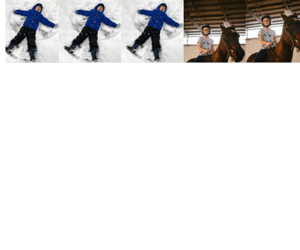
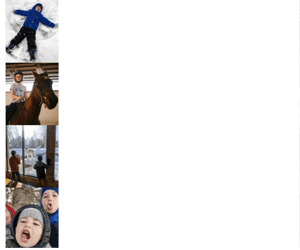
Aldi photo update

Changed region(s): [[0.18, 0.0, 1.0, 0.252], [0.0, 0.224, 0.21, 1.0]]

diff --git a/preview/Aldi/Aldi_Photo_2025/300x250/main.js b/preview/Aldi/Aldi_Photo_2025/300x250/main.js
@@ -16,7 +16,8 @@ function init() {
     })
 
     document.querySelector("#mainExit").addEventListener("click", function(){
-        masterTL.progress(1);
+        // masterTL.progress(1);
+        masterTL.pause();
     })
 
     getAnimation();
@@ -27,15 +28,15 @@ function getAnimation(){
     masterTL = gsap.timeline({paused:true});
     masterTL.add("start")
     masterTL.to("#loaderWrapper", 0.2, {opacity:0, ease:Sine.easeInOut}, "start");
-    masterTL.from("#bg1Wrapper", 3, {x:300, ease:Sine.easeOut}, "start")
-    masterTL.from("#bg2Wrapper", 3, {x:180, ease:Sine.easeOut}, "start")
-    masterTL.from("#bg3Wrapper", 3, {x:220, ease:Sine.easeOut}, "start")
-    masterTL.from("#bg4Wrapper", 3, {x:260, ease:Sine.easeOut}, "start")
+    masterTL.from("#bg1Wrapper", 3, {y:-250, ease:Sine.easeOut}, "start")
+    masterTL.from("#bg2Wrapper", 3, {y:-100, ease:Sine.easeOut}, "start")
+    masterTL.from("#bg3Wrapper", 3, {y:-200, ease:Sine.easeOut}, "start")
+    masterTL.from("#bg4Wrapper", 3, {y:-120, ease:Sine.easeOut}, "start")
+    masterTL.from("#bg5Wrapper", 3, {y:-210, ease:Sine.easeOut}, "start")
     masterTL.from("#text1", 1, {x:300, ease:Power1.easeOut}, "start+=1")
     
     masterTL.to("#text1", 1, {x:-300, ease:Power1.easeIn}, "start+=4")
-    masterTL.from("#text2", 1, {x:300, ease:Power1.easeOut}, "start+=4.5")
-    masterTL.from("#book", 1.3, {x:50, y:300, rotation:180, ease:Power1.easeOut}, "start+=5")
+    masterTL.from(["#text2", "#book"], 1, {x:300, ease:Power1.easeOut}, "start+=4.5")
     
     masterTL.from("#endscreen", 0.5, {opacity:0, ease:Sine.easeInOut}, "start+=8")
     masterTL.from("#text3", 1, {x:-50, opacity:0, ease:Power1.easeOut}, "start+=8.5")

diff --git a/preview/Aldi/Aldi_Photo_2025/300x250/style.css b/preview/Aldi/Aldi_Photo_2025/300x250/style.css
@@ -78,16 +78,20 @@ img, div, object{
     width: 100%;
 }
 
+#bg5Wrapper,
 #bg1Wrapper,
 #bg2Wrapper,
 #bg3Wrapper,
 #bg4Wrapper{
-    width: 600px;
+    width: 300px;
+    height: 500px;
     display: flex;
-    flex-direction: row; 
-    right: 0;
+    flex-direction: column; 
+    top: 0;
+    left: 0;
 }
 
+#bg5Wrapper img,
 #bg1Wrapper img,
 #bg2Wrapper img,
 #bg3Wrapper img,

diff --git a/preview/Aldi/Aldi_Photo_2025/300x250/index.html b/preview/Aldi/Aldi_Photo_2025/300x250/index.html
@@ -31,6 +31,11 @@
             <img src="bg4.png">
         </div>
         
+        <div id="bg5Wrapper">
+            <img class="first" src="bg5.png">
+            <img src="bg5.png">
+        </div>
+        
         <img id="text1" src="text1.png">
         <img id="text2" src="text2.png">
         <img id="book" src="book.png">
